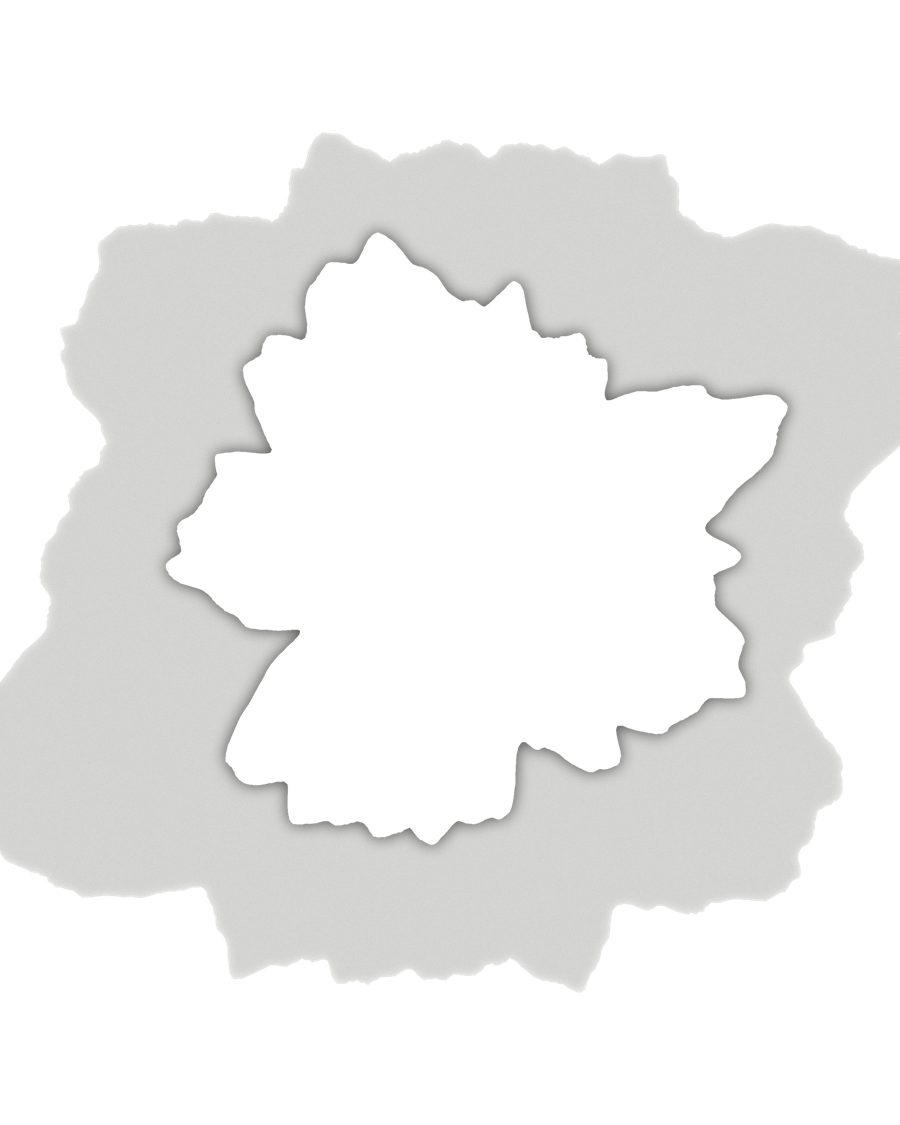
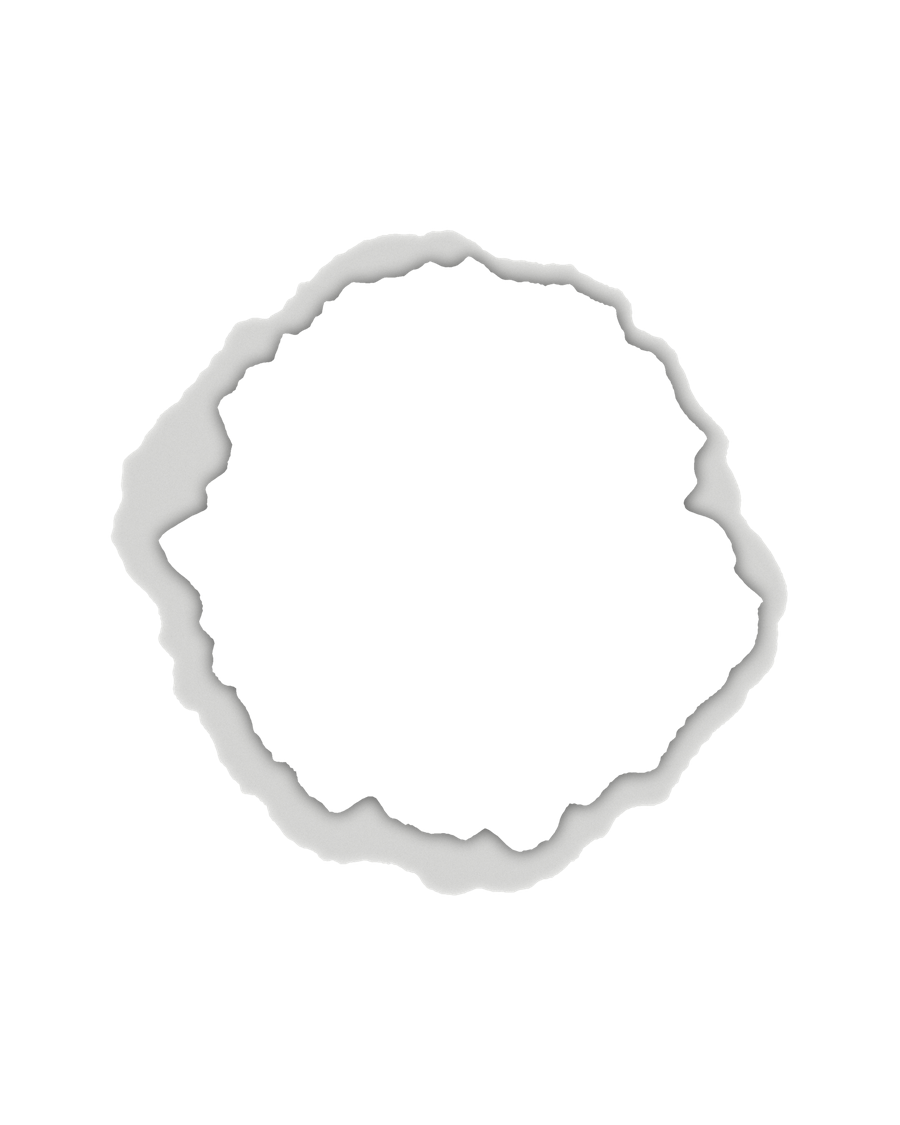
update

diff --git a/src/components/ui/TornPaperPhoto.tsx b/src/components/ui/TornPaperPhoto.tsx
@@ -2,7 +2,7 @@ import Image from "next/image";
 
 export function TornPaperPhoto() {
   return (
-    <div className="relative mx-auto aspect-[4/5] w-64 sm:w-80 md:w-full md:max-w-sm">
+    <div className="relative mx-auto aspect-[4/5] w-72 sm:w-80 md:w-[clamp(360px,30vw,560px)] lg:w-[clamp(420px,32vw,640px)]">
       {/* Glow lembut di belakang, warna ikut tema aktif */}
       <div
         aria-hidden="true"
@@ -29,7 +29,7 @@ export function TornPaperPhoto() {
           src="/images/mypp.webp"
           alt="Bayu Herlambang"
           fill
-          sizes="(min-width: 768px) 380px, 60vw"
+          sizes="(min-width: 1280px) 680px, (min-width: 768px) 560px, 80vw"
           className="object-cover"
         />
       </div>
@@ -40,7 +40,7 @@ export function TornPaperPhoto() {
         alt=""
         aria-hidden="true"
         fill
-        sizes="(min-width: 768px) 380px, 60vw"
+        sizes="(min-width: 1280px) 680px, (min-width: 768px) 560px, 80vw"
         className="pointer-events-none select-none object-cover"
       />
     </div>

diff --git a/src/components/sections/Hero.tsx b/src/components/sections/Hero.tsx
@@ -35,7 +35,7 @@ export function Hero() {
         aria-hidden="true"
       />
 
-      <div className="relative mx-auto grid w-full max-w-[var(--container-width)] items-center gap-12 px-6 py-16 md:grid-cols-[1.15fr_0.85fr] md:py-0">
+      <div className="relative mx-auto grid w-full max-w-[var(--container-width)] items-center gap-12 px-6 py-16 md:grid-cols-[1.3fr_0.7fr] md:py-0">
         <div>
           <motion.p
             {...revealUp(0)}
@@ -47,7 +47,7 @@ export function Hero() {
 
           <motion.h1
             {...revealUp(0.1)}
-            className="max-w-3xl text-4xl font-semibold leading-tight text-text-primary sm:text-5xl md:text-6xl"
+            className="max-w-3xl text-4xl font-semibold leading-tight text-text-primary sm:text-5xl md:text-5xl lg:text-6xl"
           >
             Bayu Herlambang
           </motion.h1>
